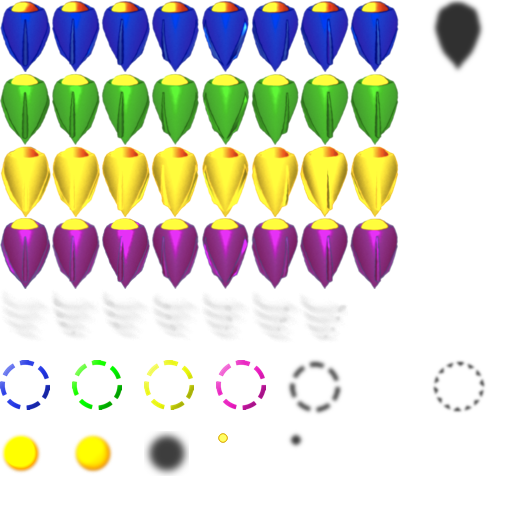
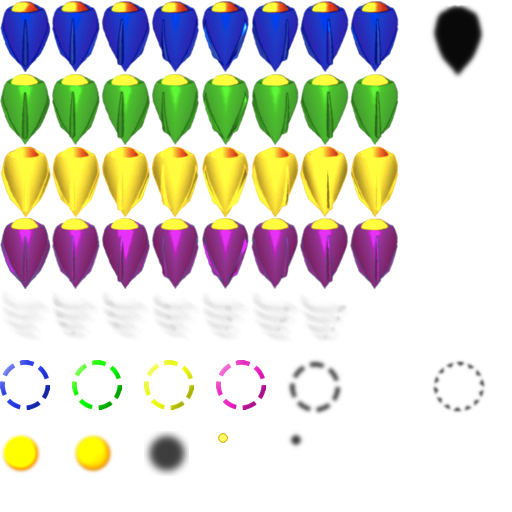
greed: fixed shadow boundries, lowres commandline switch

Changed region(s): [[0.8438, 0.0, 0.9688, 0.1562]]

diff --git a/dgreed/apps/greed/game.c b/dgreed/apps/greed/game.c
@@ -132,7 +132,7 @@ void game_init(void) {
 			ship_rects[y][x] = rectf(px, py, px + 50.0f, py + 72.0f);
 		}
 	}	
-	ship_shadow_rect = rectf(433.0f, 0.0f, 433.0f + 50.0f, 72.0f);
+	ship_shadow_rect = rectf(429.0f, 0.0f, 429.0f + 58.0f, 4.0f + 76.0f);
 
 	for(uint x = 0; x < VORTEX_FRAMES; ++x) {
 		float px = (float)x * 50.0f;

diff --git a/dgreed/apps/greed/greed.c b/dgreed/apps/greed/greed.c
@@ -7,9 +7,14 @@
 #include "ai.h"
 #include "sounds.h"
 
-const bool highres = true;
+bool highres = true;
 
 int dgreed_main(int argc, const char** argv) {
+	params_init(argc, argv);
+
+	if(params_find("-s") != ~0)
+		highres = false;
+
 	log_init("greed.log", LOG_LEVEL_INFO);
 	rand_init(47891);
 
